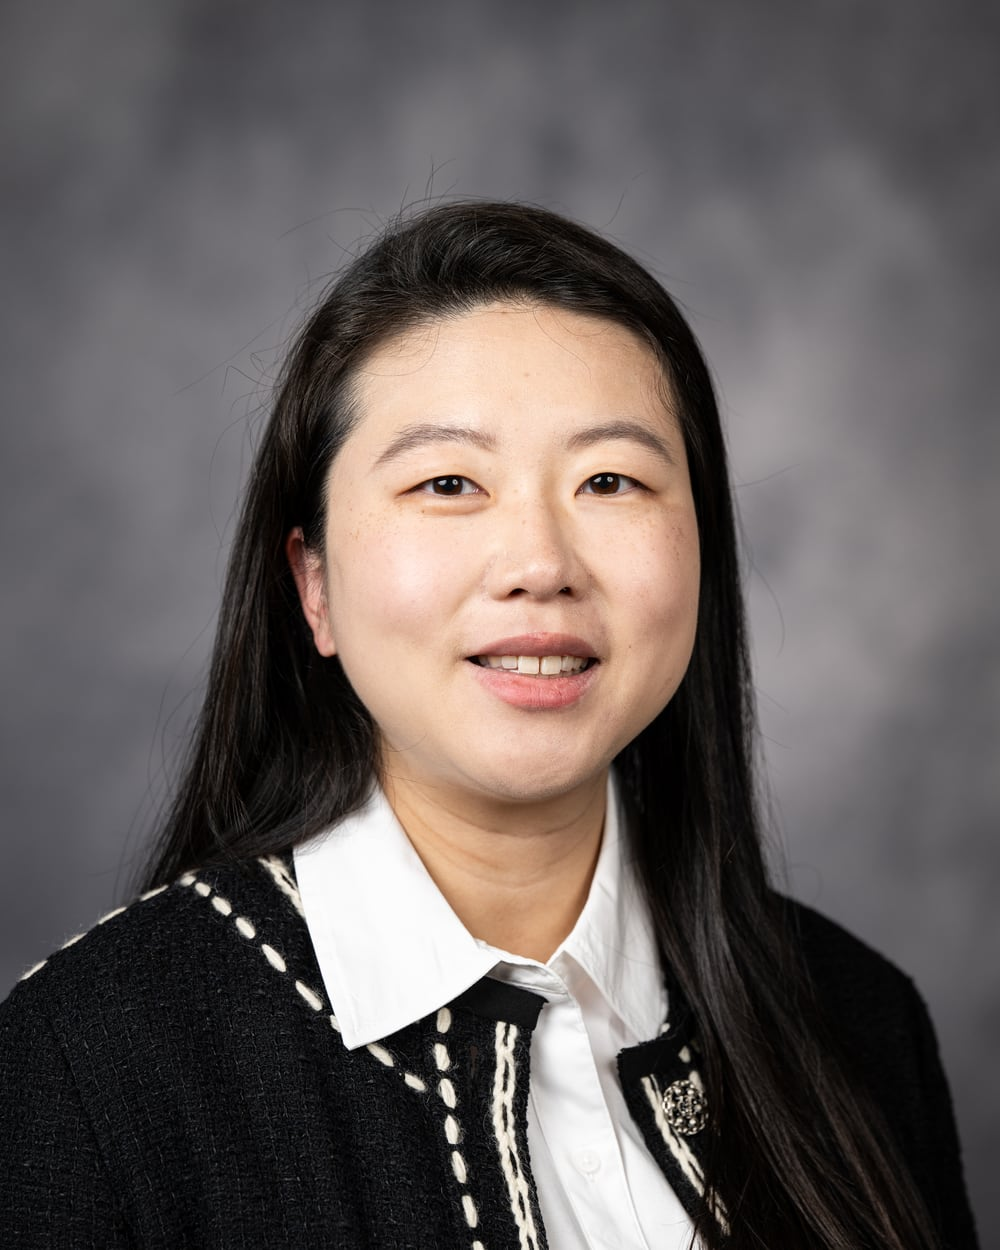
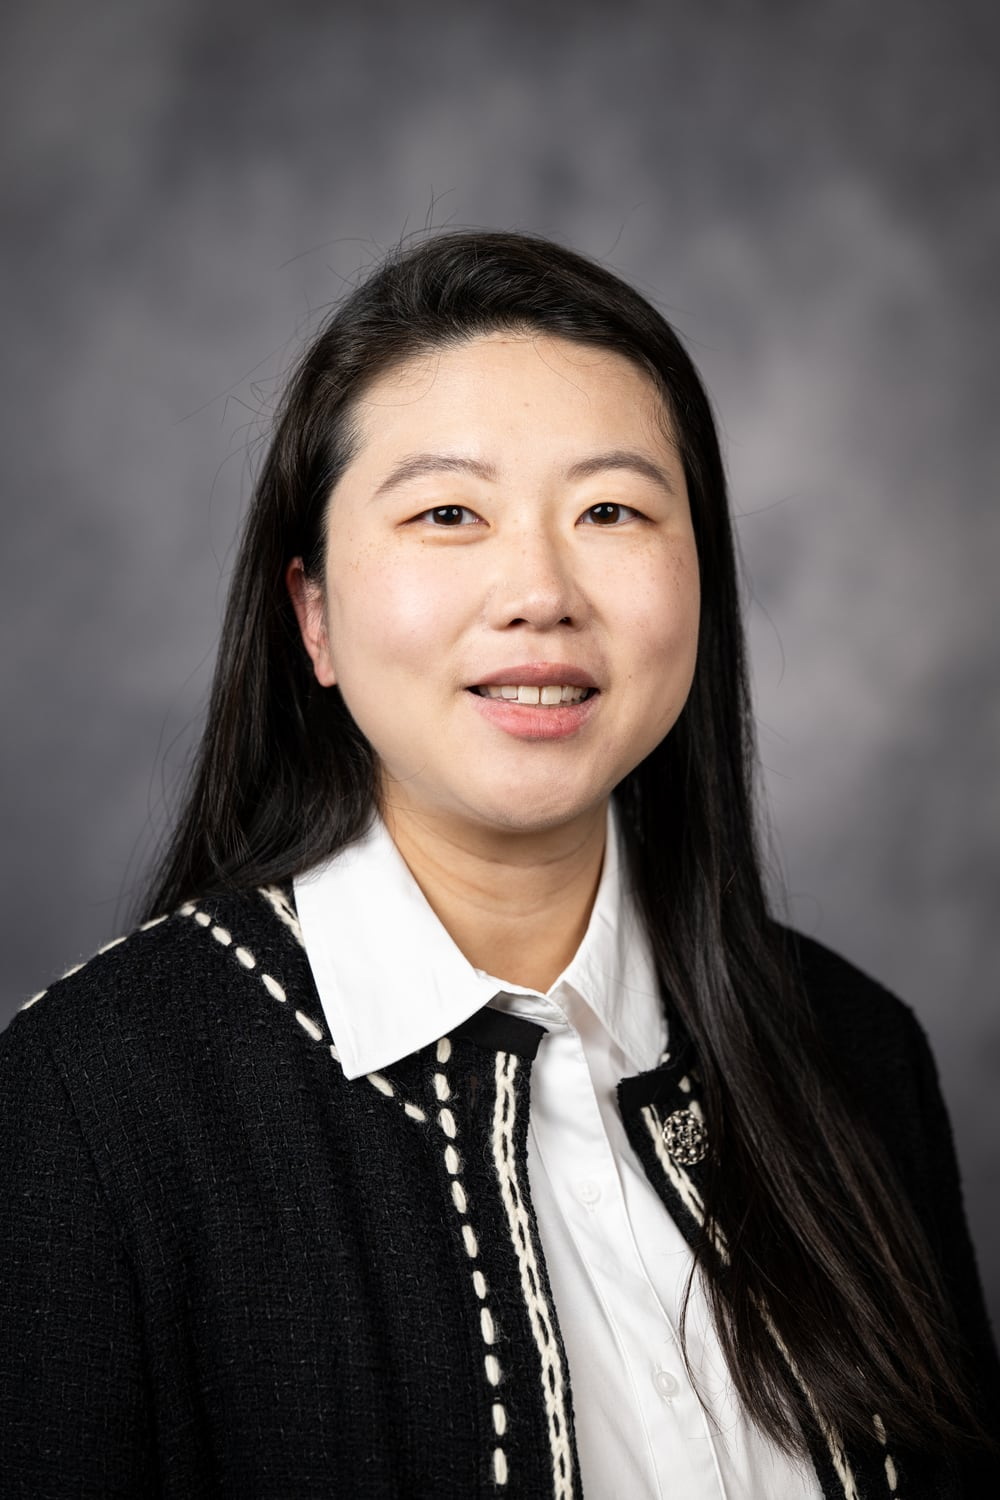
Set website portrait to 2:3 aspect ratio

diff --git a/src/styles/global.css b/src/styles/global.css
@@ -68,8 +68,8 @@ a:focus-visible {
 .portrait {
   display: block;
   width: 100%;
-  height: 17.5rem;
-  aspect-ratio: 4 / 5;
+  height: 21rem;
+  aspect-ratio: 2 / 3;
   background-color: var(--color-surface);
   object-fit: cover;
   object-position: center top;
@@ -205,7 +205,7 @@ footer p {
 
   .portrait {
     width: 11.5rem;
-    height: 14.375rem;
+    height: 17.25rem;
     margin-inline: auto;
   }
 

diff --git a/src/data/site.ts b/src/data/site.ts
@@ -83,7 +83,7 @@ export const siteData = {
       src: "/images/soyoung-han-2026.jpg",
       alt: "Portrait of Soyoung Han",
       width: 1000,
-      height: 1250,
+      height: 1500,
     },
   },
   research: [
